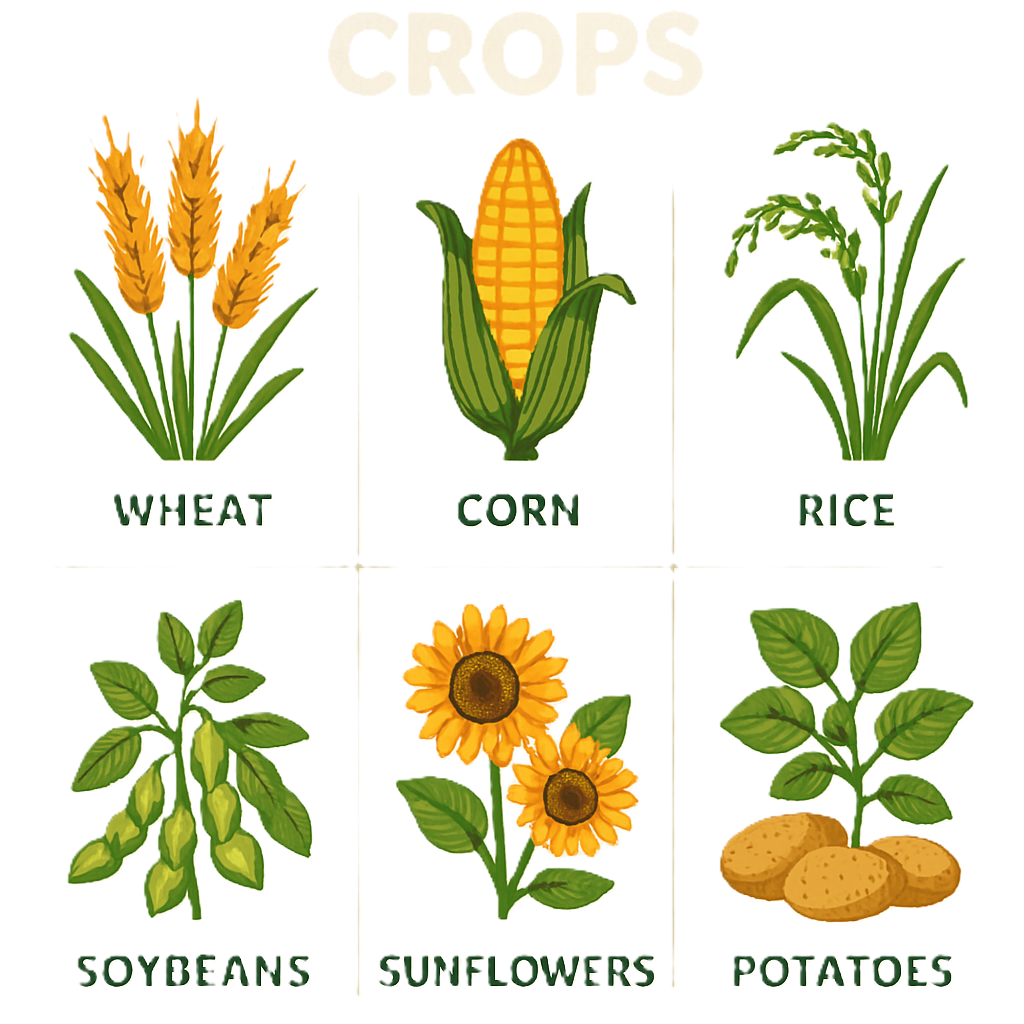
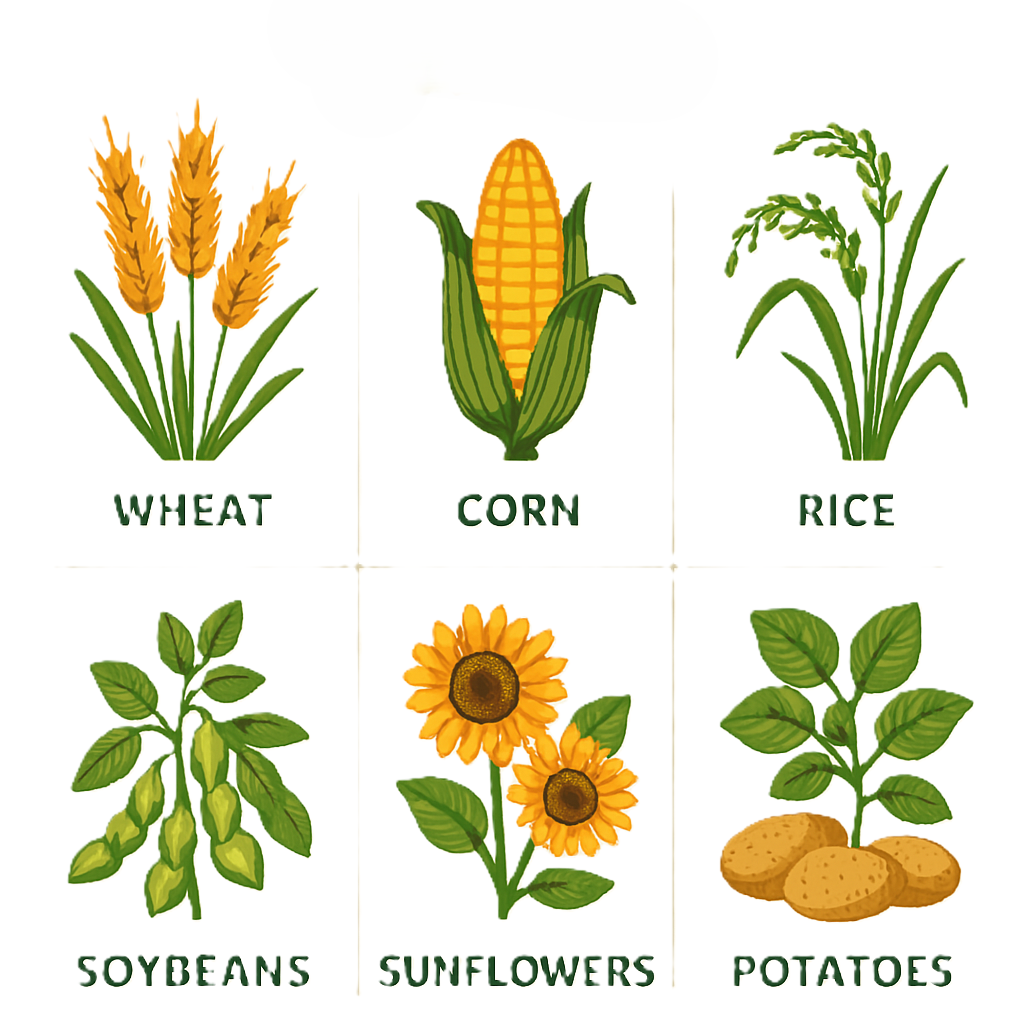
fixed landing page

Changed region(s): [[0.3125, 0.0, 0.6875, 0.0938]]

diff --git a/client/public/LandingPage/index.html b/client/public/LandingPage/index.html
@@ -38,7 +38,7 @@
                 <p>Welcome to</p>
                 <img src="assets/PragatiPath.png" alt="PragatiPath">
             </div>
-            <div class="cover-crop"><img src="assets/cropA.png" alt="Crops"></div>
+            <div class="cover-crop"><img src="assets/bgcrop.png" alt="Crops"></div>
             <div class="hero-desc">
                 <p>An e-learning platform dedicated to empowering rural communities with essential skills.</p>
                 <p>Learn modern farming techniques, digital literacy, and entrepreneurship to build a better future.</p>
